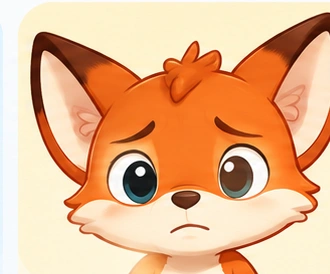
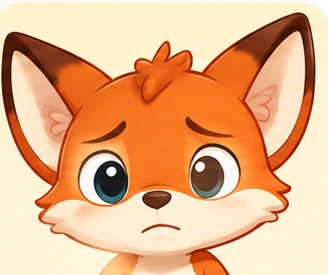
Add files via upload

diff --git a/index.html b/index.html
@@ -1,4 +1,4 @@
-<!doctype html><html lang="fr"><head><meta charset="utf-8"><meta name="viewport" content="width=device-width,initial-scale=1,viewport-fit=cover"><meta name="theme-color" content="#123a5b"><meta name="apple-mobile-web-app-capable" content="yes"><meta name="apple-mobile-web-app-title" content="PASTEL Pédiatrie"><link rel="manifest" href="manifest.webmanifest"><link rel="icon" href="icon.svg" type="image/svg+xml"><title>PASTEL Pédiatrie — Version 3.2</title><style>
+<!doctype html><html lang="fr"><head><meta charset="utf-8"><meta name="viewport" content="width=device-width,initial-scale=1,viewport-fit=cover"><meta name="theme-color" content="#123a5b"><meta name="apple-mobile-web-app-capable" content="yes"><meta name="apple-mobile-web-app-title" content="PASTEL Pédiatrie"><link rel="manifest" href="manifest.webmanifest"><link rel="icon" href="icon.svg" type="image/svg+xml"><title>PASTEL Pédiatrie — Version 3.3</title><style>
 :root{font-family:system-ui,-apple-system,Segoe UI,sans-serif;background:#edf3f8;color:#183044}*{box-sizing:border-box}body{margin:0}header{background:#123a5b;color:white;padding:20px max(18px,calc((100vw - 580px)/2))}header h1{font-size:21px;margin:0}header small{opacity:.83}main{max-width:580px;margin:0 auto;padding:12px 14px 38px}.card{background:#fff;border-radius:15px;padding:17px;margin-bottom:12px;box-shadow:0 2px 9px #1830440b}h2{font-size:17px;margin:0 0 13px}h3{font-size:15px;margin:14px 0 6px}label{font-size:13px;font-weight:650;display:block;margin:10px 0 5px}input,select{width:100%;font:inherit;padding:11px;border:1px solid #a9bac9;border-radius:9px;background:white;color:#183044}input:focus,select:focus{outline:2px solid #367ea5}.inputs{display:grid;grid-template-columns:1fr 1fr;gap:10px}.result{background:#e5f1f9;padding:13px;border-radius:10px;margin-top:13px}.big{font-size:27px;font-weight:800}.muted{font-size:12px;color:#53677b}.tabs{display:grid;grid-template-columns:repeat(5,1fr);gap:5px;margin:0 0 12px}.tab{padding:11px 2px;border:0;border-radius:10px;background:#dce8f1;color:#24465f;font-weight:700;font-size:12px}.tab.active{background:#123a5b;color:white}.panel{display:none}.panel.active{display:block}.line{display:flex;justify-content:space-between;align-items:flex-start;gap:10px;padding:11px 0;border-bottom:1px solid #e1e9ef}.line:last-child{border:0}.line strong{font-size:15px;text-align:right;white-space:nowrap}.tag{display:inline-block;background:#e4eff8;color:#174366;border-radius:5px;padding:3px 7px;font-weight:800;margin-right:6px}.warn{background:#fff3de;border-left:4px solid #d99a27;padding:12px;border-radius:8px;font-size:12px;line-height:1.5}.info{background:#e9f3fa;border-left:4px solid #4486b2;padding:12px;border-radius:8px;font-size:12px;line-height:1.5}.button{border:0;background:#123a5b;color:white;border-radius:9px;padding:11px 14px;font-weight:700;cursor:pointer}.secondary{background:#e4edf5;color:#123a5b}.buttons{display:flex;gap:8px;flex-wrap:wrap;margin-top:13px}footer{font-size:11px;color:#53677b;line-height:1.5;padding:6px 3px}.source{font-size:11px;color:#5d6d7c;margin-top:12px}a{color:#145d87}.micro{color:#bd202b;font-size:15px;font-weight:850;display:block;margin-top:3px}
     .dose{display:flex;flex-direction:column;align-items:flex-end}
     .choice{display:block;padding:10px 12px;margin:5px 0;border:1px solid #d4e0e9;border-radius:9px;font-size:13px;font-weight:400;cursor:pointer}
@@ -13,7 +13,7 @@
     .evalgroup{border:0;padding:0;margin:14px 0}.evalgroup legend{font-weight:800}
     @media(min-width:520px){.foxgrid{grid-template-columns:repeat(6,1fr)}}
     @media(max-width:390px){.tab{font-size:11px}.line strong{font-size:14px}}
-</style></head><body><header><h1>PASTEL(M) Pédiatrie</h1><small>Version 3.2 · Calculateur pédagogique · Références ES ASUR</small></header><main><section class="card"><h2>Données de l'enfant</h2><div class="inputs"><div><label for="age">Âge</label><input id="age" type="number" value="6" min="0" max="18" step="any" inputmode="decimal"></div><div><label for="unit">Unité</label><select id="unit"><option value="years">Années</option><option value="months">Mois</option></select></div></div><label for="weight">Poids réel (kg) — facultatif</label><input id="weight" type="number" min="0" max="150" step="any" inputmode="decimal" placeholder="Laisser vide pour estimation"><div id="weightDisplay" class="result"></div><p class="muted" id="weightNotice"></p></section><nav class="tabs" aria-label="Sections"><button class="tab active" data-tab="pastel">PASTEL</button><button class="tab" data-tab="vitals">Constantes</button><button class="tab" data-tab="airway">Matériel</button><button class="tab" data-tab="evaluation">Évaluation</button><button class="tab" data-tab="training">Formation</button></nav><section id="pastel" class="panel active"><div class="card"><h2>PASTEL(M)</h2><div id="pastelRows"></div><div class="buttons"><button class="button" id="copy">Copier le tableau</button></div><p class="source">Source : ES ASUR, support pédiatrie 2026, p. 19. Calculs théoriques sans dose maximale ni indication clinique.</p></div><div class="card"><h2>Repères de préparation</h2><div id="extra"></div><p class="source">Adrénaline : concentration 0,1 mg/mL issue de la SOP ES ASUR « Préparation/dilution adrénaline » (18.09.2025). Ne pas confondre les voies IV/IO et IM.</p></div></section><section id="vitals" class="panel"><div class="card"><h2>Constantes selon l'âge</h2><div id="vitalRows"></div><div class="warn">La fréquence cardiaque normale par tranche d'âge n'est pas intégrée à cette version : les seuils nécessitent une table de référence validée. Les constantes ne remplacent pas l'évaluation clinique, le TEP ou l'ABCDE.</div><p class="source">Source : ES ASUR, support pédiatrie 2026, pp. 14 et 78–79. La TAs indiquée est une limite inférieure, pas une valeur cible habituelle.</p></div></section><section id="airway" class="panel"><div class="card"><h2>Ventilation et dispositifs</h2><div id="airwayRows"></div><div class="info">Masque facial : choisir sur l'anatomie (arête du nez jusqu'au creux du menton), pas uniquement sur le poids. Vérifier l'étanchéité, l'élévation thoracique et l'EtCO₂. Valve pop-off ouverte selon la SOP.</div><p class="source">Sources : SOP ES ASUR BAVU pédiatrique (21.07.2025), pp. 2–6 ; SOP i-gel pédiatrique (18.09.2025), p. 3. Les plages i-gel se chevauchent : vérifier la notice et le dispositif réel.</p></div></section><section id="evaluation" class="panel">
+</style></head><body><header><h1>PASTEL(M) Pédiatrie</h1><small>Version 3.3 · Calculateur pédagogique · Références ES ASUR</small></header><main><section class="card"><h2>Données de l'enfant</h2><div class="inputs"><div><label for="age">Âge</label><input id="age" type="number" value="6" min="0" max="18" step="any" inputmode="decimal"></div><div><label for="unit">Unité</label><select id="unit"><option value="years">Années</option><option value="months">Mois</option></select></div></div><label for="weight">Poids réel (kg) — facultatif</label><input id="weight" type="number" min="0" max="150" step="any" inputmode="decimal" placeholder="Laisser vide pour estimation"><div id="weightDisplay" class="result"></div><p class="muted" id="weightNotice"></p></section><nav class="tabs" aria-label="Sections"><button class="tab active" data-tab="pastel">PASTEL</button><button class="tab" data-tab="vitals">Constantes</button><button class="tab" data-tab="airway">Matériel</button><button class="tab" data-tab="evaluation">Évaluation</button><button class="tab" data-tab="training">Formation</button></nav><section id="pastel" class="panel active"><div class="card"><h2>PASTEL(M)</h2><div id="pastelRows"></div><div class="buttons"><button class="button" id="copy">Copier le tableau</button></div><p class="source">Source : ES ASUR, support pédiatrie 2026, p. 19. Calculs théoriques sans dose maximale ni indication clinique.</p></div><div class="card"><h2>Repères de préparation</h2><div id="extra"></div><p class="source">Adrénaline : concentration 0,1 mg/mL issue de la SOP ES ASUR « Préparation/dilution adrénaline » (18.09.2025). Ne pas confondre les voies IV/IO et IM.</p></div></section><section id="vitals" class="panel"><div class="card"><h2>Constantes selon l'âge</h2><div id="vitalRows"></div><div class="warn">La fréquence cardiaque normale par tranche d'âge n'est pas intégrée à cette version : les seuils nécessitent une table de référence validée. Les constantes ne remplacent pas l'évaluation clinique, le TEP ou l'ABCDE.</div><p class="source">Source : ES ASUR, support pédiatrie 2026, pp. 14 et 78–79. La TAs indiquée est une limite inférieure, pas une valeur cible habituelle.</p></div></section><section id="airway" class="panel"><div class="card"><h2>Ventilation et dispositifs</h2><div id="airwayRows"></div><div class="info">Masque facial : choisir sur l'anatomie (arête du nez jusqu'au creux du menton), pas uniquement sur le poids. Vérifier l'étanchéité, l'élévation thoracique et l'EtCO₂. Valve pop-off ouverte selon la SOP.</div><p class="source">Sources : SOP ES ASUR BAVU pédiatrique (21.07.2025), pp. 2–6 ; SOP i-gel pédiatrique (18.09.2025), p. 3. Les plages i-gel se chevauchent : vérifier la notice et le dispositif réel.</p></div></section><section id="evaluation" class="panel">
 <div class="card"><h2>Glasgow pédiatrique</h2>
 <p class="muted">Choisir la réponse observée. La réponse verbale et la réponse motrice sont adaptées au développement. Noter séparément E, V et M.</p>
 <label for="gcsMode">Développement</label><select id="gcsMode"><option value="pre">Enfant préverbal / nourrisson</option><option value="verbal">Enfant verbal</option></select>
@@ -56,7 +56,7 @@ function updateGcs(){
 $('gcsMode').onchange=drawGcs;
 $('gcsReset').onclick=()=>drawGcs();drawGcs();
 const painNames=['Pas de douleur','Petite douleur','Douleur modérée','Douleur importante','Très grande douleur','Pire douleur possible'];
-$('foxGrid').innerHTML=painNames.map((name,i)=>`<button type="button" class="fox" data-pain="${i*2}" aria-pressed="false"><img src="renard-${i}.webp?v=32" alt="Renard : ${name}"><span>${i*2} / 10</span><small>${name}</small></button>`).join('');
+$('foxGrid').innerHTML=painNames.map((name,i)=>`<button type="button" class="fox" data-pain="${i*2}" aria-pressed="false"><img src="renard-${i}.webp?v=33" alt="Renard : ${name}"><span>${i*2} / 10</span><small>${name}</small></button>`).join('');
 $('foxGrid').querySelectorAll('button').forEach(b=>b.onclick=()=>{
  $('foxGrid').querySelectorAll('button').forEach(x=>x.setAttribute('aria-pressed',String(x===b)));
  $('foxScore').textContent=`${b.dataset.pain} / 10 · ${painNames[Number(b.dataset.pain)/2]}`;

diff --git a/sw.js b/sw.js
@@ -1,1 +1,1 @@
-const CACHE='pastel-v3-2-20261025';const ASSETS=['./','./index.html','./manifest.webmanifest','./icon.svg',...Array.from({length:6},(_,i)=>`./renard-${i}.webp`)];self.addEventListener('install',e=>{e.waitUntil(caches.open(CACHE).then(c=>c.addAll(ASSETS)));self.skipWaiting()});self.addEventListener('activate',e=>{e.waitUntil(caches.keys().then(keys=>Promise.all(keys.filter(k=>k!==CACHE).map(k=>caches.delete(k)))));self.clients.claim()});self.addEventListener('fetch',e=>{if(e.request.method!=='GET')return;e.respondWith(fetch(e.request).then(res=>{if(res.ok&&new URL(e.request.url).origin===self.location.origin){const copy=res.clone();caches.open(CACHE).then(c=>c.put(e.request,copy))}return res}).catch(()=>caches.match(e.request)))})
+const CACHE='pastel-v3-3-20261025';const ASSETS=['./','./index.html','./manifest.webmanifest','./icon.svg',...Array.from({length:6},(_,i)=>`./renard-${i}.webp`)];self.addEventListener('install',e=>{e.waitUntil(caches.open(CACHE).then(c=>c.addAll(ASSETS)));self.skipWaiting()});self.addEventListener('activate',e=>{e.waitUntil(caches.keys().then(keys=>Promise.all(keys.filter(k=>k!==CACHE).map(k=>caches.delete(k)))));self.clients.claim()});self.addEventListener('fetch',e=>{if(e.request.method!=='GET')return;e.respondWith(fetch(e.request).then(res=>{if(res.ok&&new URL(e.request.url).origin===self.location.origin){const copy=res.clone();caches.open(CACHE).then(c=>c.put(e.request,copy))}return res}).catch(()=>caches.match(e.request)))})
